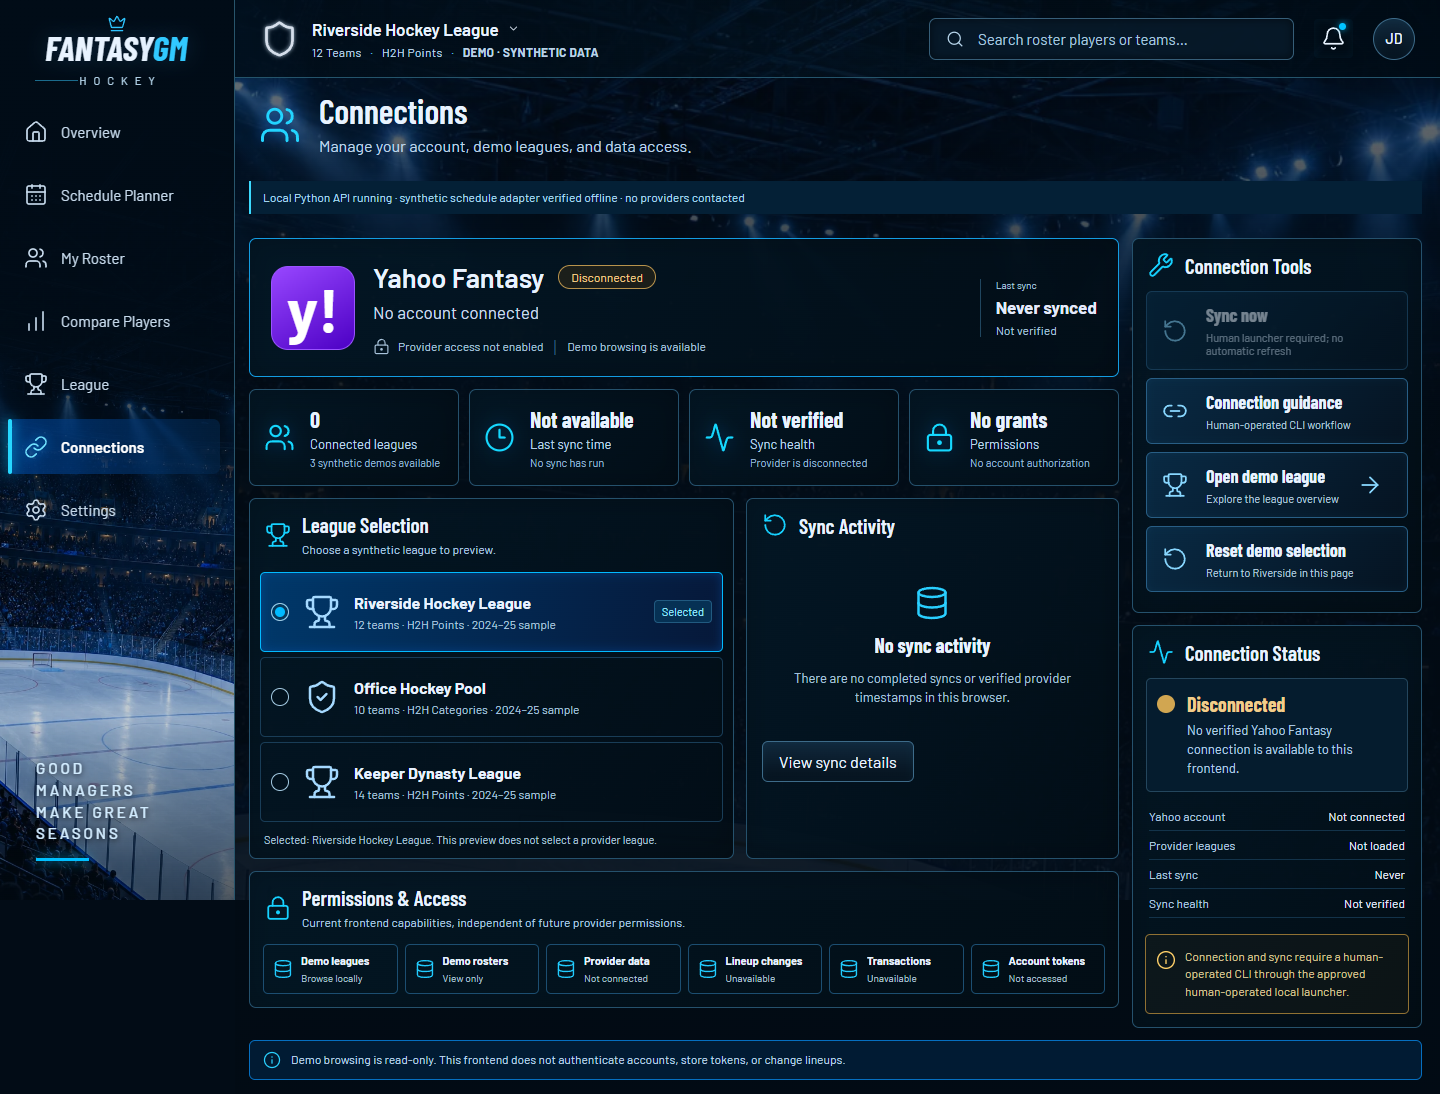
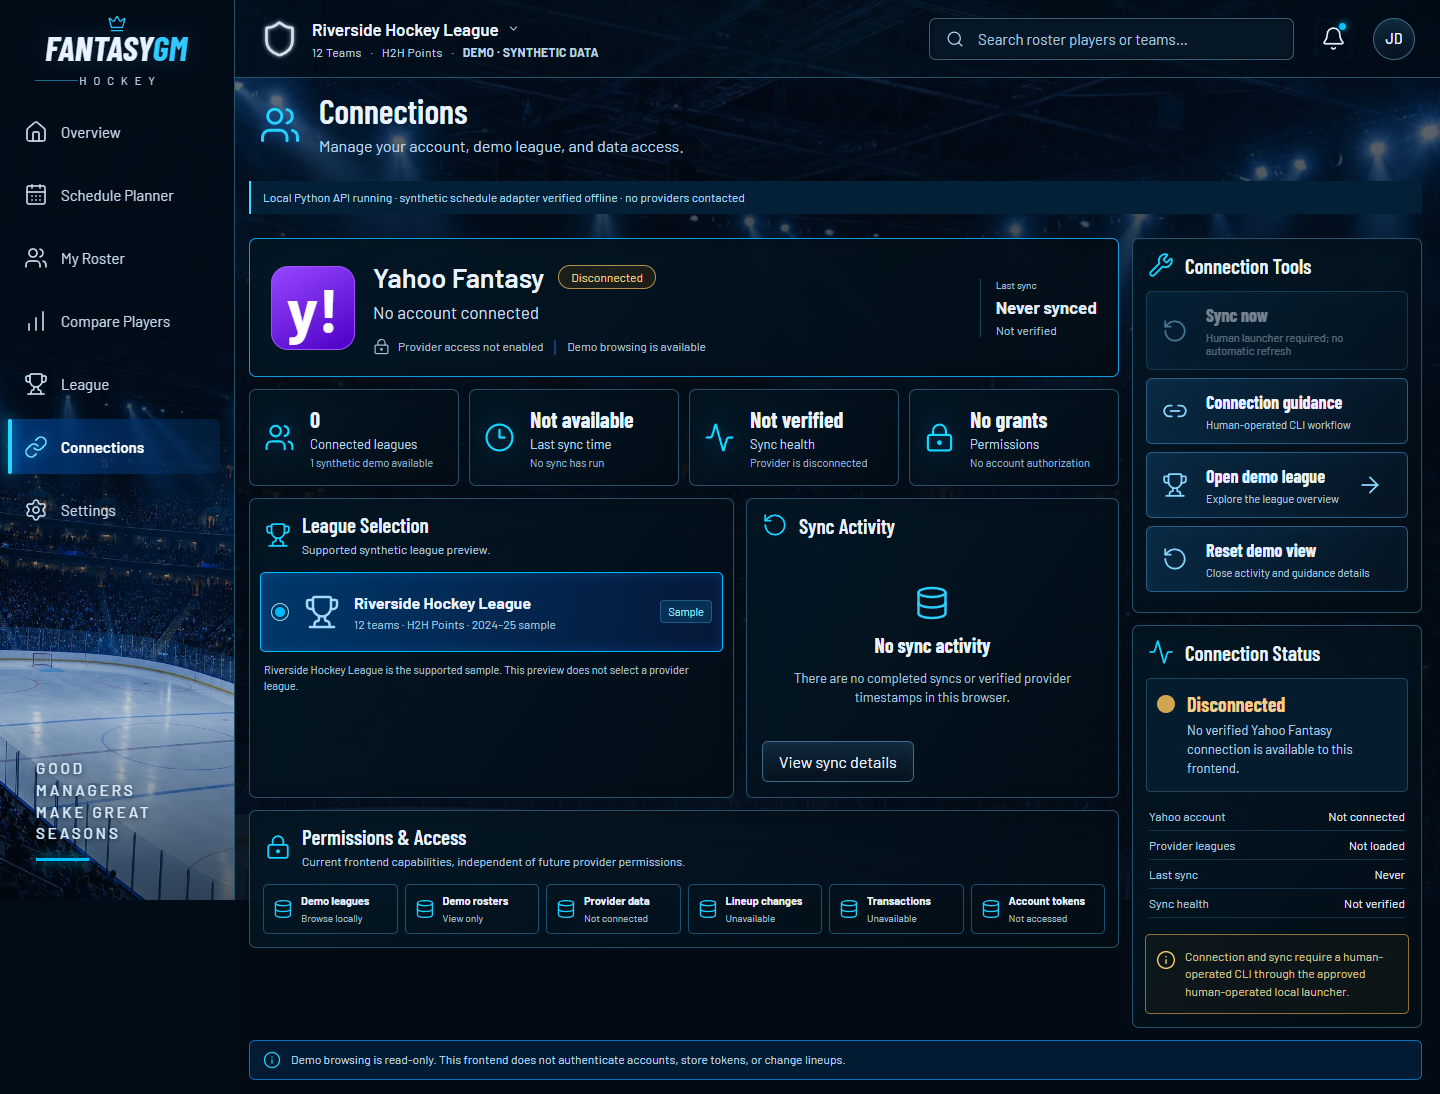
fix: keep demo league choices consistent across screens

diff --git a/frontend/src/screens/Connections.tsx b/frontend/src/screens/Connections.tsx
@@ -8,7 +8,6 @@ import {
   Link2,
   LockKeyhole,
   RotateCcw,
-  ShieldCheck,
   Trophy,
   Users,
   Wrench,
@@ -27,7 +26,6 @@ export default function Connections(props: ScreenProps) {
   );
 }
 function DemoConnections({ onNavigate, onNotice, local }: ScreenProps) {
-  const [league, setLeague] = useState('riverside');
   const [showGuide, setShowGuide] = useState(false);
   const [showActivity, setShowActivity] = useState(false);
   const leagueNames = [
@@ -37,13 +35,6 @@ function DemoConnections({ onNavigate, onNotice, local }: ScreenProps) {
       details: '12 teams · H2H Points',
       Icon: Trophy,
     },
-    {
-      id: 'office',
-      name: 'Office Hockey Pool',
-      details: '10 teams · H2H Categories',
-      Icon: ShieldCheck,
-    },
-    { id: 'keeper', name: 'Keeper Dynasty League', details: '14 teams · H2H Points', Icon: Trophy },
   ];
   return (
     <div className="connections-screen">
@@ -51,7 +42,7 @@ function DemoConnections({ onNavigate, onNotice, local }: ScreenProps) {
         <Users size={42} />
         <div>
           <h1>Connections</h1>
-          <p>Manage your account, demo leagues, and data access.</p>
+          <p>Manage your account, demo league, and data access.</p>
         </div>
       </div>
       {local?.state === 'demo' && (
@@ -89,7 +80,7 @@ function DemoConnections({ onNavigate, onNotice, local }: ScreenProps) {
               <div>
                 <b>0</b>
                 <span>Connected leagues</span>
-                <small>3 synthetic demos available</small>
+                <small>1 synthetic demo available</small>
               </div>
             </Panel>
             <Panel>
@@ -123,26 +114,20 @@ function DemoConnections({ onNavigate, onNotice, local }: ScreenProps) {
                 <Trophy />
                 <div>
                   <h2>League Selection</h2>
-                  <p>Choose a synthetic league to preview.</p>
+                  <p>Supported synthetic league preview.</p>
                 </div>
               </div>
               <fieldset>
                 <legend className="sr-only">Select demo league</legend>
                 {leagueNames.map(({ id, name, details, Icon }) => (
-                  <label
-                    key={id}
-                    className={
-                      league === id
-                        ? 'connections-league-option connections-league-active'
-                        : 'connections-league-option'
-                    }
-                  >
+                  <label key={id} className="connections-league-option connections-league-active">
                     <input
                       type="radio"
                       name="connections-demo-league"
                       value={id}
-                      checked={league === id}
-                      onChange={() => setLeague(id)}
+                      checked
+                      readOnly
+                      disabled
                     />
                     <span className="connections-demo-crest">
                       <Icon size={36} />
@@ -151,13 +136,13 @@ function DemoConnections({ onNavigate, onNotice, local }: ScreenProps) {
                       <strong>{name}</strong>
                       <small>{details} · 2024–25 sample</small>
                     </span>
-                    {league === id && <span className="connections-chip">Selected</span>}
+                    <span className="connections-chip">Sample</span>
                   </label>
                 ))}
               </fieldset>
               <p className="connections-demo-selection">
-                Selected: {leagueNames.find((item) => item.id === league)?.name}. This preview does
-                not select a provider league.
+                Riverside Hockey League is the supported sample. This preview does not select a
+                provider league.
               </p>
             </Panel>
             <Panel className="connections-sync">
@@ -250,15 +235,15 @@ function DemoConnections({ onNavigate, onNotice, local }: ScreenProps) {
             <Button
               className="connections-tool"
               onClick={() => {
-                setLeague('riverside');
                 setShowActivity(false);
-                onNotice('Demo league selection reset. No account data was changed.');
+                setShowGuide(false);
+                onNotice('Demo view reset. No account data was changed.');
               }}
             >
               <RotateCcw />
               <span>
-                <b>Reset demo selection</b>
-                <small>Return to Riverside in this page</small>
+                <b>Reset demo view</b>
+                <small>Close activity and guidance details</small>
               </span>
             </Button>
           </Panel>

diff --git a/frontend/tests/league-preferences.test.tsx b/frontend/tests/league-preferences.test.tsx
@@ -26,14 +26,17 @@ describe('League and preferences', () => {
     render(<Connections {...props} />);
     expect(screen.getByRole('heading', { name: 'Disconnected' })).toBeVisible();
     expect(screen.getByText('Never synced')).toBeVisible();
+    expect(screen.getAllByRole('radio')).toHaveLength(1);
+    expect(screen.getByRole('radio')).toBeChecked();
+    expect(screen.getByRole('radio')).toBeDisabled();
+    expect(screen.queryByText('Office Hockey Pool')).not.toBeInTheDocument();
+    expect(screen.queryByText('Keeper Dynasty League')).not.toBeInTheDocument();
     expect(
       screen.queryByText(/Connected & Healthy|john.*@|Token expires/i),
     ).not.toBeInTheDocument();
     expect(screen.getByRole('button', { name: /Sync now/i })).toBeDisabled();
-    await user.click(screen.getByRole('button', { name: /Reset demo selection/i }));
-    expect(props.onNotice).toHaveBeenCalledWith(
-      'Demo league selection reset. No account data was changed.',
-    );
+    await user.click(screen.getByRole('button', { name: /Reset demo view/i }));
+    expect(props.onNotice).toHaveBeenCalledWith('Demo view reset. No account data was changed.');
   });
 
   it('changes only session preview preferences and resets after remount', async () => {

diff --git a/docs/league-settings.md b/docs/league-settings.md
@@ -2,9 +2,9 @@
 
 Dependent milestone: base `feature/dark-arena-planner-comparison` (PR #10). No merges are performed.
 
-League follows the approved standings/current-matchup/weekly-matchups composition, with settings, activity and playoff panels beneath. The supported Riverside sample includes standings sorting, search, expansion and week navigation with clearly labeled synthetic examples. Other preview leagues do not have competition data. Unloaded weeks never inherit example scores. There is no provider-backed scoreboard, probability, activity or qualification claim.
+League follows the approved standings/current-matchup/weekly-matchups composition, with settings, activity and playoff panels beneath. The supported Riverside sample includes standings sorting, search, expansion and week navigation with clearly labeled synthetic examples. Unloaded weeks never inherit example scores. There is no provider-backed scoreboard, probability, activity or qualification claim.
 
-Connections retains the approved account, metrics, league selector, activity, permissions and tools layout, but accurately shows disconnected and unverified state. No account identity, last-sync timestamp, health or token expiry is fabricated. Authentication is not part of this frontend-only milestone.
+Connections retains the approved account, metrics, league preview, activity, permissions and tools layout, but accurately shows disconnected and unverified state. Riverside is the single supported synthetic sample; unsupported demo-league choices are removed. No account identity, last-sync timestamp, health or token expiry is fabricated. Authentication is not part of this frontend-only milestone.
 
 Settings preserves the approved category navigation and general/display/notification/scoring/account panels. Logos, compact spacing and high contrast apply across the app in memory for the current session. Other supported selectors change an explicitly synthetic expandable preview. Notifications, projections, roster percentages and unsupported themes are disabled with explanations. No preferences enter localStorage, cookies or network requests.
 

diff --git a/docs/release-acceptance.md b/docs/release-acceptance.md
@@ -14,7 +14,7 @@ milestones. The final branch contains the complete runnable application.
 | Player Profile | Exact selected identity, shared portrait/fallback, stats tabs, schedule and comparison navigation | Licensed photos use verified curated NHL IDs only; unmapped Yahoo identities receive fallbacks; no live performance/history/news/advice |
 | Schedule Planner | Daily away/home matchups, selected-game detail, dates/weeks, roster coverage | Pure Python analysis reused; unverified affiliation joins excluded; coverage, unplaced games and incomplete B2Bs remain explicit |
 | Player Comparison | Two independent selectors, swap, combined search, totals/per-game views and schedules | Provider statistics unavailable; no invented projections or history; two supplied players required |
-| League | Riverside synthetic standings, sort/search and matchup weeks | Other preview leagues have no competition data. Private mode shows reported league/team only; scores/standings/playoffs/settings/activity not fetched by this bounded session |
+| League | Riverside synthetic standings, sort/search and matchup weeks | Private mode shows reported league/team only; scores/standings/playoffs/settings/activity not fetched by this bounded session |
 | Connections | Coarse source state, observation limits, local disconnect | Loaded observation is not ongoing health; provider refresh requires a new human launcher load |
 | Settings | Session-wide logos/spacing/contrast, expandable sample previews and credits | Other selectors affect the labeled preview; no persistence, push alerts, unsupported theme or projection service |
 
